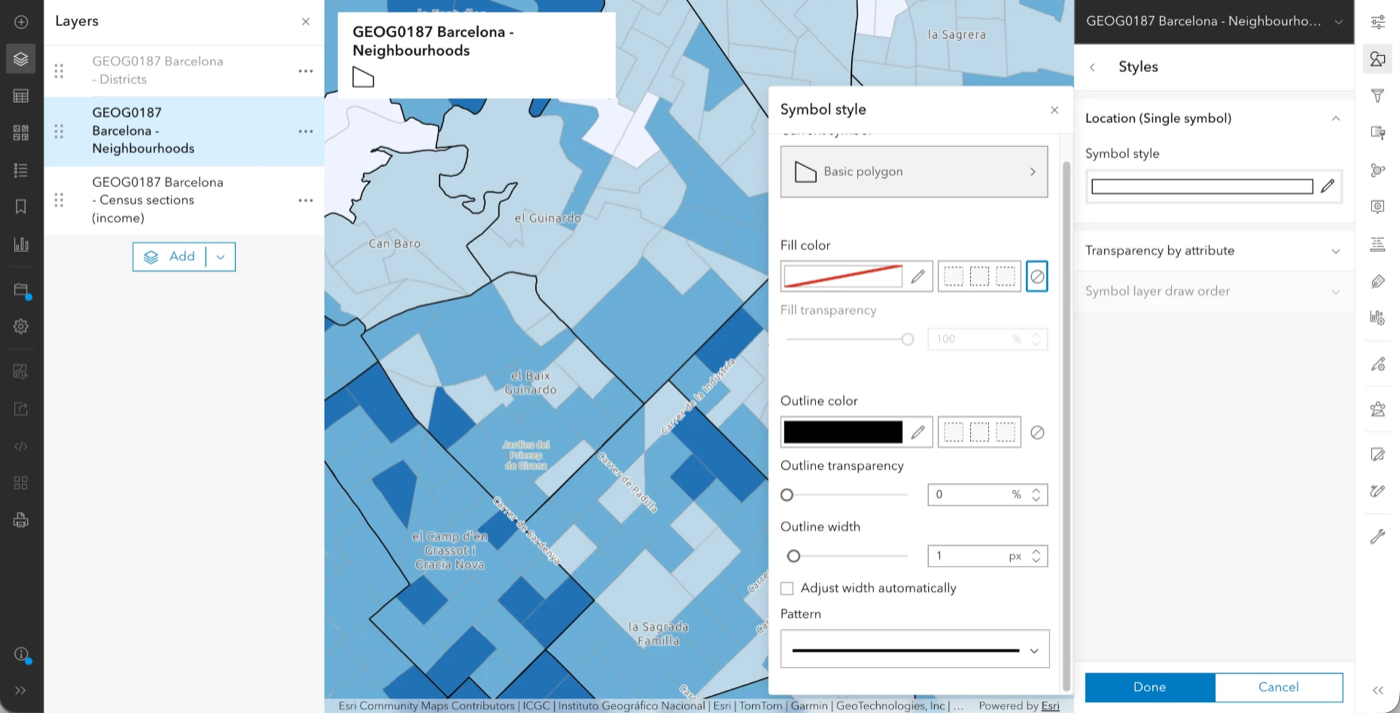
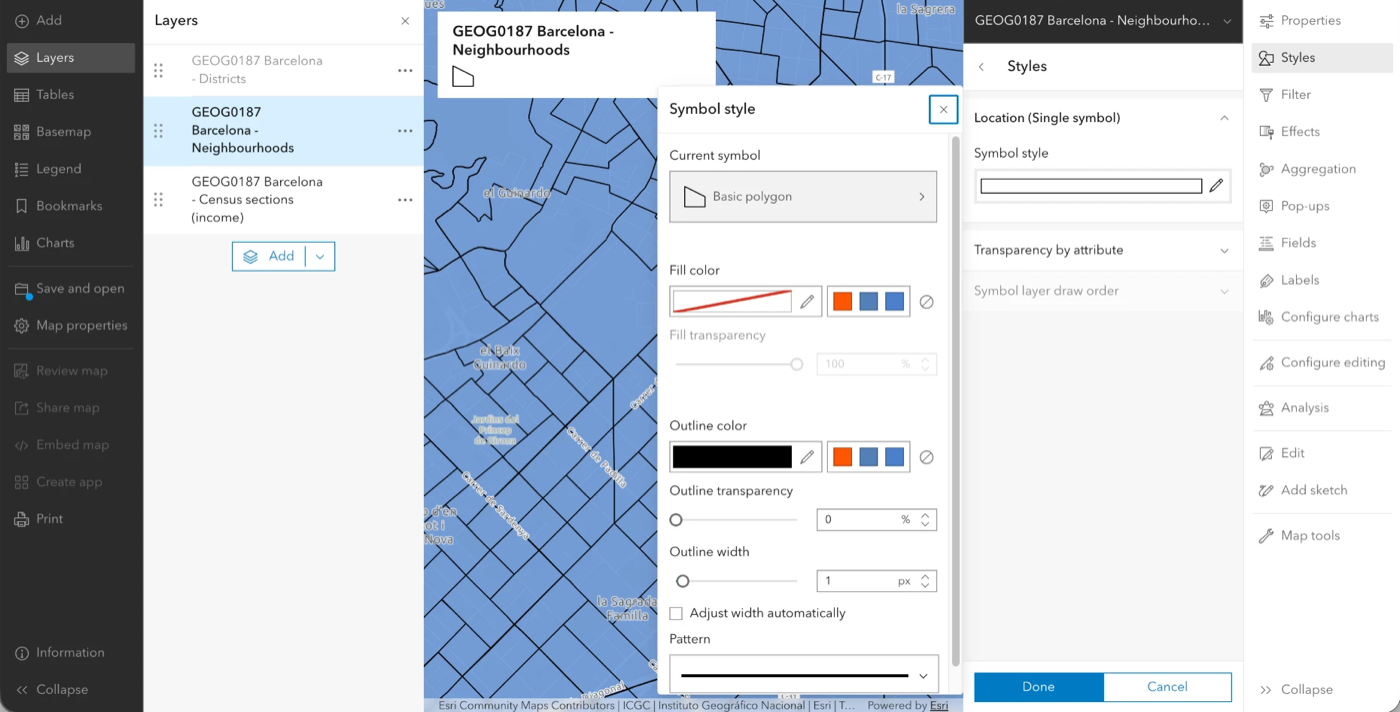
Page 04: retaken styles, classify and no-fill screenshots; add boundary-fill figure

diff --git a/docs/04-secondary.html b/docs/04-secondary.html
@@ -529,7 +529,17 @@ Figure&nbsp;1: The Barcelona layers under <span class="ui">My organization</span
 <ol start="4" type="1">
 <li>Open <span class="ui">Layers</span> and check the order. The layer at the <em>top</em> of the list is drawn on top of the others, so the census sections should be at the <em>bottom</em>, with the neighbourhoods above them and the districts at the top. If the order is different, drag the layers by their handle (⠿) on the left.</li>
 </ol>
-<p>Because the boundary layers are on top, their fill colour hides the census sections underneath. They should show only their outlines:</p>
+<p>Because the boundary layers are on top, their fill colour hides the census sections underneath (<a href="#fig-boundary-fill" class="quarto-xref">Figure&nbsp;2</a>). They should show only their outlines:</p>
+<div id="fig-boundary-fill" class="quarto-float quarto-figure quarto-figure-center anchored" alt="Map Viewer zoomed into Barcelona, with the neighbourhoods layer drawn in a solid blue fill that covers the census sections underneath">
+<figure class="quarto-float quarto-float-fig figure">
+<div aria-describedby="fig-boundary-fill-caption-0ceaefa1-69ba-4598-a22c-09a6ac19f8ca">
+<img src="images/w04/boundary-fill.png" class="img-fluid figure-img" alt="Map Viewer zoomed into Barcelona, with the neighbourhoods layer drawn in a solid blue fill that covers the census sections underneath">
+</div>
+<figcaption class="quarto-float-caption-bottom quarto-float-caption quarto-float-fig" id="fig-boundary-fill-caption-0ceaefa1-69ba-4598-a22c-09a6ac19f8ca">
+Figure&nbsp;2: The neighbourhoods layer, with its default fill, hides the census sections underneath.
+</figcaption>
+</figure>
+</div>
 <ol start="5" type="1">
 <li>In <span class="ui">Layers</span>, click the neighbourhoods layer, and then click <span class="ui">Styles</span> on the right-hand toolbar.</li>
 <li>A boundary layer has only one style, <span class="ui">Location (Single symbol)</span>. Click <span class="ui">Style options</span> under it, and then the pencil next to <span class="ui">Symbol style</span>.</li>
@@ -543,7 +553,7 @@ Figure&nbsp;1: The Barcelona layers under <span class="ui">My organization</span
 <img src="images/w04/no-fill.png" class="img-fluid figure-img" alt="Symbol style panel for the neighbourhoods layer, with the no colour button selected for the fill and a black outline">
 </div>
 <figcaption class="quarto-float-caption-bottom quarto-float-caption quarto-float-fig" id="fig-no-fill-caption-0ceaefa1-69ba-4598-a22c-09a6ac19f8ca">
-Figure&nbsp;2: Neighbourhoods with no fill and a black outline.
+Figure&nbsp;3: Neighbourhoods with no fill and a black outline.
 </figcaption>
 </figure>
 </div>
@@ -588,7 +598,7 @@ Figure&nbsp;2: Neighbourhoods with no fill and a black outline.
 <img src="images/w04/styles.png" class="img-fluid figure-img" alt="Styles panel with disp_income_pc_2023_eur chosen as the attribute and Counts and Amounts (color) selected">
 </div>
 <figcaption class="quarto-float-caption-bottom quarto-float-caption quarto-float-fig" id="fig-styles-caption-0ceaefa1-69ba-4598-a22c-09a6ac19f8ca">
-Figure&nbsp;3: Styling the census sections by disposable income.
+Figure&nbsp;4: Styling the census sections by disposable income.
 </figcaption>
 </figure>
 </div>
@@ -614,7 +624,7 @@ Figure&nbsp;3: Styling the census sections by disposable income.
 <img src="images/w04/classify.png" class="img-fluid figure-img" alt="Style options with Classify data switched on, Quantile as the method and the class limits listed underneath">
 </div>
 <figcaption class="quarto-float-caption-bottom quarto-float-caption quarto-float-fig" id="fig-classify-caption-0ceaefa1-69ba-4598-a22c-09a6ac19f8ca">
-Figure&nbsp;4: Classifying the data into quantiles.
+Figure&nbsp;5: Classifying the data into quantiles.
 </figcaption>
 </figure>
 </div>
@@ -672,7 +682,7 @@ Figure&nbsp;4: Classifying the data into quantiles.
 <img src="images/w04/popup.png" class="img-fluid figure-img" alt="Pop-up for a census section in el Camp de l'Arpa del Clot showing its disposable income per person, next to the Pop-ups panel with a title and one text block">
 </div>
 <figcaption class="quarto-float-caption-bottom quarto-float-caption quarto-float-fig" id="fig-popup-caption-0ceaefa1-69ba-4598-a22c-09a6ac19f8ca">
-Figure&nbsp;5: A pop-up for a census section.
+Figure&nbsp;6: A pop-up for a census section.
 </figcaption>
 </figure>
 </div>
